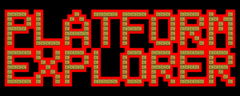
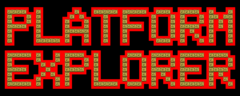
Updated title

diff --git a/Platformer.HACK_05/Platformer.HACK_05_title/Platformer.HACK/Platformer.HACK/PlatformerGame.cs b/Platformer.HACK_05/Platformer.HACK_05_title/Platformer.HACK/Platformer.HACK/PlatformerGame.cs
@@ -46,7 +46,7 @@ namespace Platformer
 			graphics = new GraphicsDeviceManager(this);
 			graphics.IsFullScreen = false;
 			graphics.PreferredBackBufferWidth = 784;
-			graphics.PreferredBackBufferHeight= 17*16;
+			graphics.PreferredBackBufferHeight= 18*16;
 			Content.RootDirectory = "Content";
 			Logger.Initialize();
 		}

diff --git a/Platformer.HACK_05/Platformer.HACK_05_title/Platformer.HACK/Platformer.HACK/Level.cs b/Platformer.HACK_05/Platformer.HACK_05_title/Platformer.HACK/Platformer.HACK/Level.cs
@@ -549,7 +549,7 @@ namespace Platformer
 	                {
 						// Version #1.
 
-		                int offset = 8;
+		                int offset = 6;
 						// Draw it in screen space.
 						Vector2 pos0 = new Vector2(x, y) * Tile.Size;
 						Vector2 pos1 = new Vector2(pos0.X - offset, pos0.Y - offset);
